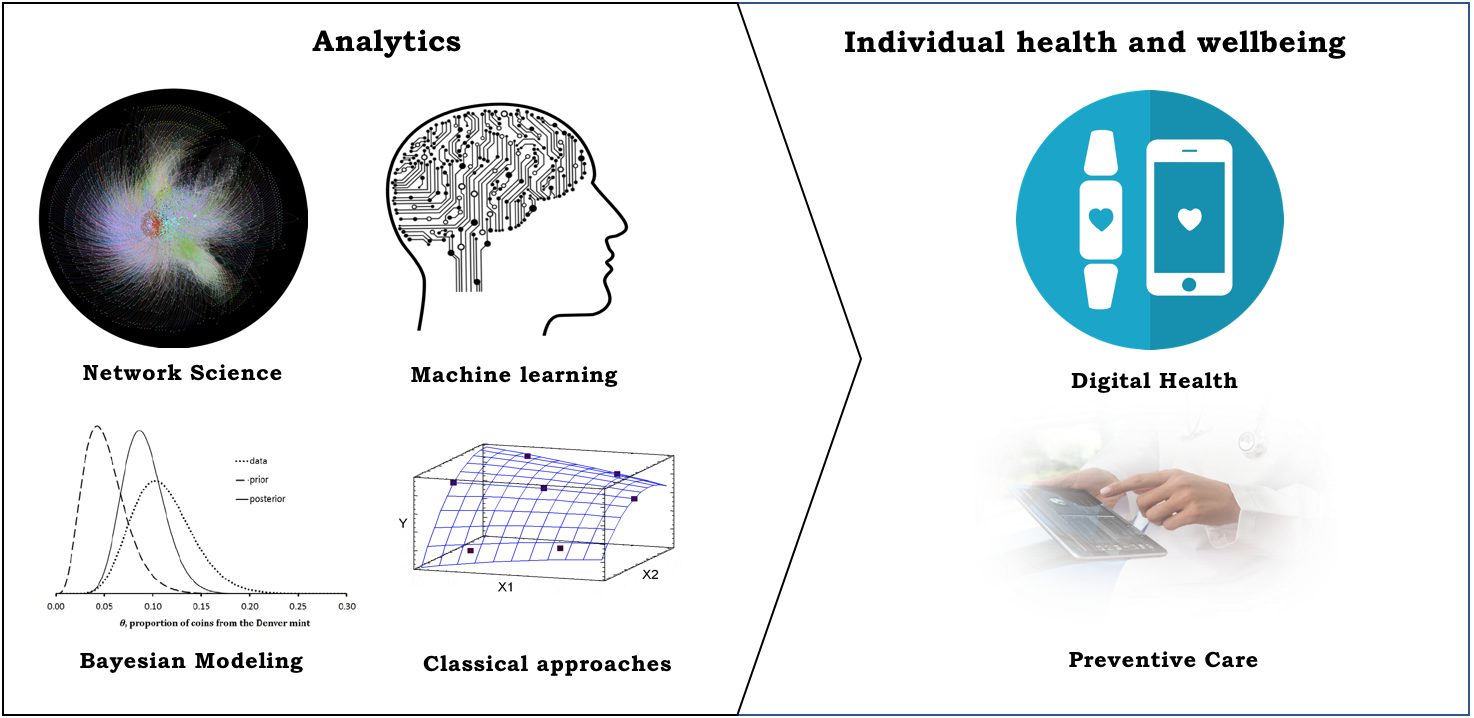
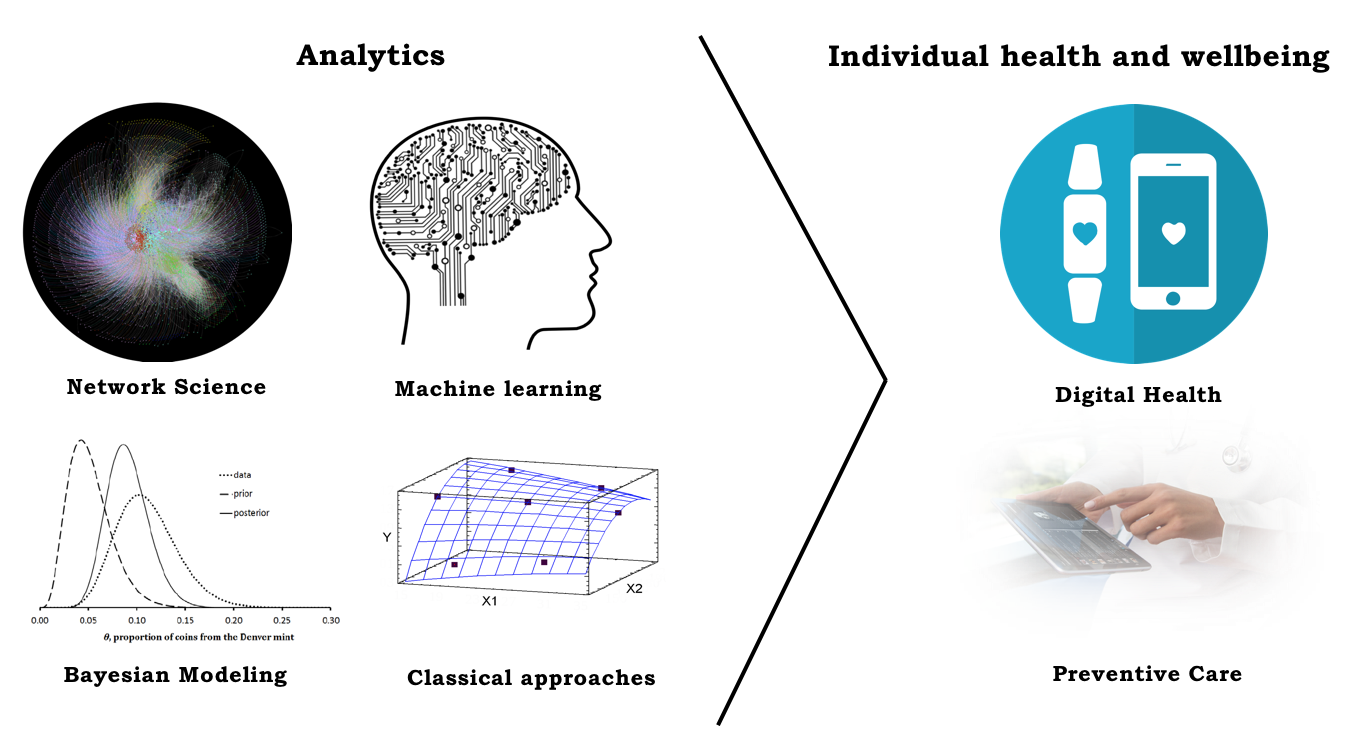
IntroImage_updated

diff --git a/_pages/about.md b/_pages/about.md
@@ -11,7 +11,7 @@ My name is Karthik Srinivasan and I am doing my Ph.D in Management Information S
 
 My researches focus areas are preventive care analytics and digital health analytics. Preventive care and digital health are two application domains of healthcare information systems (HIS) analytics. Preventive care analytics is the science of extracting population-level insights from electronic health records to assist preventive care policies, while digital health analytics focuses on enhancing individual wellbeing via continuous tracking of health indicators. With rapid development in healthcare big data and sensor technologies, research in these two areas is increasing in importance and complexity. Innovative methods are required for processing and analyzing the complex data generated from such systems. My current research focuses on addressing the challenges in preventive care and digital health analytics using novel statistical machine learning methods.
 
-<div class="wp-caption aligncenter" style="width: 750px; border: 0;">
+<div class="wp-caption aligncenter" style="width: 1250px; border: 0;">
   <p>
     <img class="aligncenter" src="http://karanalytics.com/images/Health_analytics.png" alt="File:Dublin.jpg"/>
   </p>
